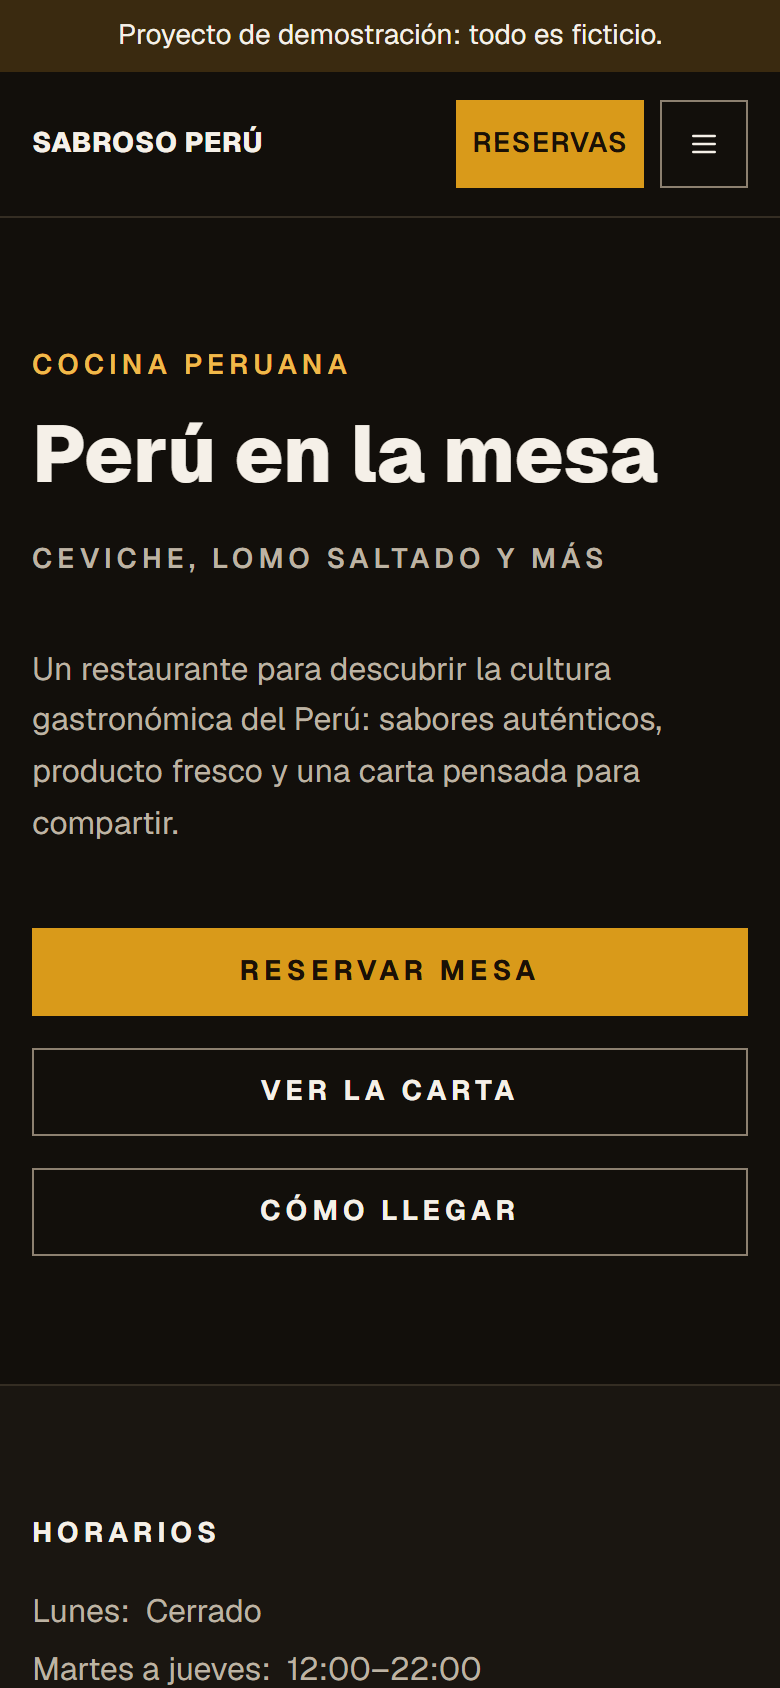
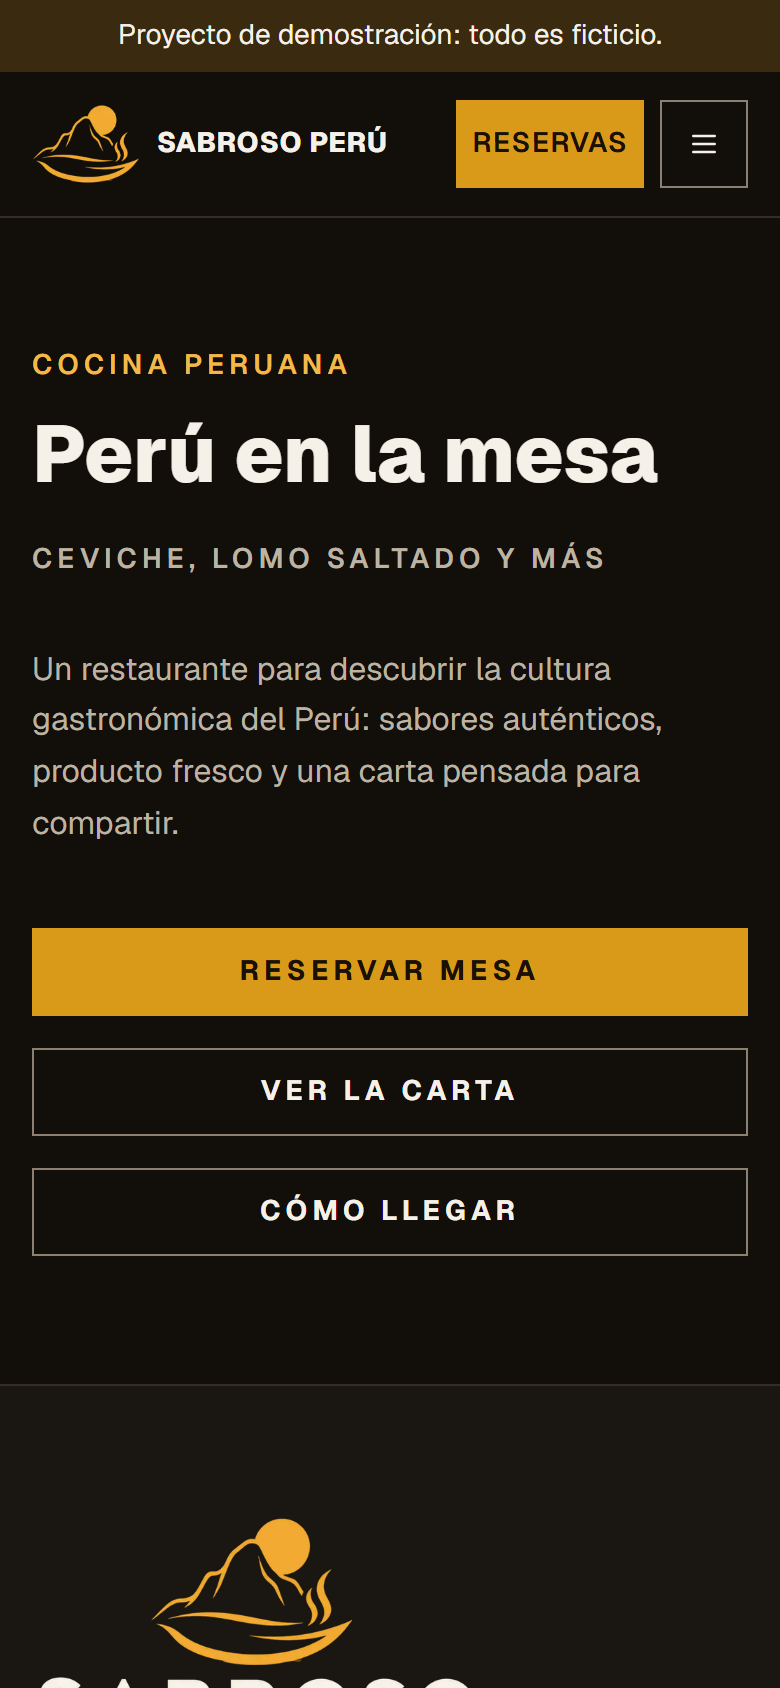
feat: nuevo logotipo de marca y puerto 3200
Logotipo (emblema de montaña, sol y cuenco humeante, en ámbar y crema):

- scripts/build-logo.mjs deriva, a partir de docs/brand/logo-original.webp,
  el emblema y el logo completo con fondo transparente (máscara por
  luminosidad y colores de marca), el favicon, el icono de pantalla de
  inicio y la imagen para compartir (Open Graph).
- Cabecera con el emblema; el nombre se ve junto a él desde 380 px.
- Portada con el logo completo; metadataBase y og:image con la URL pública.
- Tests de marca (5 por proyecto). Se añade sharp como dependencia de
  desarrollo para el script.

Puerto 3200 para dev, start y e2e (antes 3000), para no chocar con otros
proyectos. Los e2e lo pasan a next start con -p y se cambia con E2E_PORT.
README y capturas actualizados.

Changed region(s): [[0.0308, 0.8934, 0.6154, 1.0], [0.0308, 0.0616, 0.4923, 0.1232]]

diff --git a/tests/marca.spec.ts b/tests/marca.spec.ts
@@ -1,0 +1,72 @@
+import { test, expect } from '@playwright/test';
+import type { Page } from '@playwright/test';
+import { restaurante } from '../src/config/restaurante';
+
+const imagenCargada = (page: Page, selector: string) =>
+  page.locator(selector).evaluate((img) => {
+    const el = img as HTMLImageElement;
+    return el.complete && el.naturalWidth > 0;
+  });
+
+test.describe('marca', () => {
+  test('la cabecera muestra el emblema (decorativo) y el enlace se llama como el restaurante', async ({ page }) => {
+    for (const ancho of [320, 375, 430, 1280]) {
+      await page.setViewportSize({ width: ancho, height: 800 });
+      await page.goto('/');
+      const enlace = page.locator('header').getByRole('link', { name: restaurante.nombre });
+      await expect(enlace, `@${ancho}`).toHaveAttribute('href', '/');
+      const emblema = enlace.locator('img');
+      await expect(emblema).toBeVisible();
+      await expect(emblema).toHaveAttribute('alt', '');
+      expect(await imagenCargada(page, 'header img'), `@${ancho}: emblema cargado`).toBe(true);
+    }
+  });
+
+  test('el nombre se ve junto al emblema desde 380 px y en pantallas más estrechas queda solo para lectores', async ({
+    page,
+  }) => {
+    await page.setViewportSize({ width: 430, height: 800 });
+    await page.goto('/');
+    const nombre = page.locator('header a[href="/"] span');
+    await expect(nombre).toBeVisible();
+
+    await page.setViewportSize({ width: 360, height: 800 });
+    const caja = await nombre.boundingBox();
+    expect(caja === null || caja.width <= 1, 'sin texto visible a 360 px').toBe(true);
+    await expect(page.locator('header').getByRole('link', { name: restaurante.nombre })).toBeVisible();
+  });
+
+  test('el logotipo de la portada tiene texto alternativo y se carga', async ({ page }) => {
+    await page.goto('/');
+    const logo = page.locator('main img[src*="logo-vertical"]');
+    await expect(logo).toBeVisible();
+    await expect(logo).toHaveAttribute('alt', `${restaurante.nombre}, cocina peruana`);
+    expect(await imagenCargada(page, 'main img[src*="logo-vertical"]')).toBe(true);
+  });
+
+  test('hay favicon, icono de pantalla de inicio e imagen para compartir', async ({ page, request }) => {
+    await page.goto('/');
+    const iconos = await page.locator('head link[rel~="icon"], head link[rel="apple-touch-icon"]').evaluateAll((ls) =>
+      ls.map((l) => ({ rel: l.getAttribute('rel') ?? '', href: (l as HTMLLinkElement).href })),
+    );
+    expect(iconos.some((i) => i.rel.includes('icon') && i.href.includes('icon'))).toBe(true);
+    expect(iconos.some((i) => i.rel === 'apple-touch-icon')).toBe(true);
+    for (const icono of iconos) {
+      const respuesta = await request.get(icono.href);
+      expect(respuesta.status(), icono.href).toBe(200);
+      expect(respuesta.headers()['content-type'], icono.href).toContain('image/png');
+    }
+
+    const og = await page.locator('head meta[property="og:image"]').getAttribute('content');
+    expect(og, 'og:image').toBeTruthy();
+    const respuesta = await request.get(new URL(og ?? '').pathname);
+    expect(respuesta.status()).toBe(200);
+    expect(respuesta.headers()['content-type']).toContain('image/png');
+  });
+
+  test('la imagen para compartir usa la URL pública del sitio', async ({ page }) => {
+    await page.goto('/');
+    const og = await page.locator('head meta[property="og:image"]').getAttribute('content');
+    expect(og?.startsWith('https://sabroso-peru.vercel.app/')).toBe(true);
+  });
+});

diff --git a/src/components/Cabecera.tsx b/src/components/Cabecera.tsx
@@ -1,3 +1,4 @@
+import Image from 'next/image';
 import Link from 'next/link';
 import { Navegacion } from '@/components/Navegacion';
 import { restaurante } from '@/config/restaurante';
@@ -9,9 +10,10 @@ export function Cabecera() {
       <div className="flex min-h-nav flex-wrap items-center justify-between gap-x-3 py-2 sm:gap-x-6">
         <Link
           href="/"
-          className="inline-flex min-h-11 items-center text-label font-extrabold uppercase tracking-wide text-fg sm:text-body sm:tracking-caps"
+          className="inline-flex min-h-11 items-center gap-2 text-label font-extrabold uppercase tracking-wide text-fg sm:text-body sm:tracking-caps"
         >
-          {restaurante.nombre}
+          <Image src="/brand/emblema.png" alt="" width={163} height={120} priority className="h-10 w-auto" />
+          <span className="sr-only xs:not-sr-only">{restaurante.nombre}</span>
         </Link>
         <Navegacion enlaces={enlacesCabecera()} />
       </div>

diff --git a/src/app/page.tsx b/src/app/page.tsx
@@ -1,3 +1,4 @@
+import Image from 'next/image';
 import Link from 'next/link';
 import { Resenas } from '@/components/Resenas';
 import { resenas } from '@/content/resenas';
@@ -66,6 +67,15 @@ export default function Inicio() {
           aria-labelledby="inicio-horarios"
           className="flex flex-col justify-center border-t border-border bg-surface px-gutter py-16 lg:border-l lg:border-t-0"
         >
+          <Image
+            src="/brand/logo-vertical.png"
+            alt={`${restaurante.nombre}, cocina peruana`}
+            width={768}
+            height={533}
+            priority
+            sizes="(min-width: 1024px) 256px, 224px"
+            className="mb-10 h-auto w-56 lg:w-64"
+          />
           <h2
             id="inicio-horarios"
             className="text-label font-bold uppercase tracking-caps text-fg"

diff --git a/playwright.config.ts b/playwright.config.ts
@@ -1,6 +1,7 @@
 import { defineConfig, devices } from '@playwright/test';
 
-const PORT = 3000;
+// Puerto propio de los e2e (3200) para no chocar con otros proyectos que usen el 3000. Se cambia con E2E_PORT.
+const PORT = Number(process.env.E2E_PORT ?? 3200);
 const BASE_URL = `http://localhost:${PORT}`;
 const isCI = !!process.env.CI;
 
@@ -31,7 +32,7 @@ export default defineConfig({
     },
   ],
   webServer: {
-    command: isCI ? 'pnpm run start' : 'pnpm run dev',
+    command: isCI ? `pnpm run start -p ${PORT}` : `pnpm run dev -p ${PORT}`,
     url: BASE_URL,
     reuseExistingServer: !isCI,
     timeout: 120_000,

diff --git a/src/app/layout.tsx b/src/app/layout.tsx
@@ -9,6 +9,7 @@ import './globals.css';
 const geist = Geist({ subsets: ['latin'], variable: '--font-brand' });
 
 export const metadata: Metadata = {
+  metadataBase: new URL('https://sabroso-peru.vercel.app'),
   title: { default: restaurante.nombre, template: `%s | ${restaurante.nombre}` },
   description: 'Restaurante peruano: carta, reservas y cultura gastronómica.',
   robots: restaurante.demo ? { index: false, follow: false } : undefined,

diff --git a/src/app/globals.css b/src/app/globals.css
@@ -5,6 +5,11 @@
 /* Estilo del proyecto: v3-editorial-dark@0.1.0 (ver sdd/plans/PLAN-001-sitio-restaurante.md).
    Los componentes consumen solo nombres de token. */
 
+/* Punto de corte propio para móviles anchos (380 px): ahí la cabecera añade el nombre junto al emblema. */
+@theme {
+  --breakpoint-xs: 23.75rem;
+}
+
 @utility px-gutter {
   padding-inline: var(--layout-gutter);
 }

diff --git a/CHANGELOG.md b/CHANGELOG.md
@@ -21,6 +21,8 @@ y versionado [SemVer](https://semver.org/lang/es/).
 - SPEC-001, PLAN-001, ADR-001 e informes de competencia en research/.
 
 ### Cambiado
+- Nuevo logotipo (docs/brand/logo-original.webp): emblema en la cabecera (con el nombre desde 380 px), logo completo en la portada, favicon, icono de pantalla de inicio e imagen para compartir (Open Graph), todos derivados con `pnpm build-logo`. Se añade `sharp` como dependencia de desarrollo para ese script y `metadataBase`.
+- Puerto de desarrollo, producción y e2e: 3200 (antes 3000), para no chocar con otros proyectos. Se cambia con `E2E_PORT` en los e2e.
 - Cabecera responsive: en pantallas estrechas (< 768 px) pasa a una sola fila con el botón Reservas a la vista y un menú desplegable (Esc y clic fuera lo cierran); los botones del hero ocupan todo el ancho en móvil; la franja de demostración se acorta a una línea. Corrige un defecto que los tests de T-011 no detectaban: solo comprobaban que no hubiera scroll horizontal, no que la cabecera ocupara ~210 px de un móvil.
 - Desplegado en Vercel (https://sabroso-peru.vercel.app) desde la rama main; cada push a main redespliega.
 - La CI usa `pnpm run audit:ci` (scripts/check-audit.mjs): aplica la excepción de ADR-001 y falla si caduca el 2026-11-15 o si aparece otra vulnerabilidad alta o crítica. Se añade .node-version (24), que la CI necesitaba.

diff --git a/README.md b/README.md
@@ -1,5 +1,7 @@
 # Sabroso Perú
 
+<p align="center"><img src="docs/brand/logo-original.webp" alt="Logotipo de Sabroso Perú: montaña con sol sobre un cuenco humeante y el nombre en crema" width="360"></p>
+
 Sitio web de un restaurante peruano: presenta la cultura gastronómica, muestra una carta interactiva y permite reservar mesa desde el móvil o el ordenador, sin cuentas ni base de datos.
 
 **Demo en vivo:** <https://sabroso-peru.vercel.app> · **Código:** <https://github.com/Terryqg10/sabroso-peru>
@@ -86,7 +88,7 @@ pnpm install
 pnpm dev
 ```
 
-Abre <http://localhost:3000>.
+Abre <http://localhost:3200>. El proyecto usa el puerto **3200** (no el 3000) para no chocar con otros proyectos de desarrollo; los e2e lo cambian con `E2E_PORT`.
 
 Para ejecutar los tests e2e (con el servidor de producción):
 
@@ -121,6 +123,7 @@ Todo lo ficticio está en [src/config/restaurante.ts](src/config/restaurante.ts)
 | `pnpm audit:ci` | `pnpm audit` con excepciones documentadas en un ADR y su caducidad. |
 | `pnpm verify` | Comprobaciones de estructura. |
 | `pnpm install-hooks` | Instala el hook pre-commit. |
+| `pnpm build-logo` | Regenera los recursos de marca (emblema, favicon, imagen para compartir) a partir de `docs/brand/logo-original.webp`. |
 
 ## Cómo se trabaja
 
